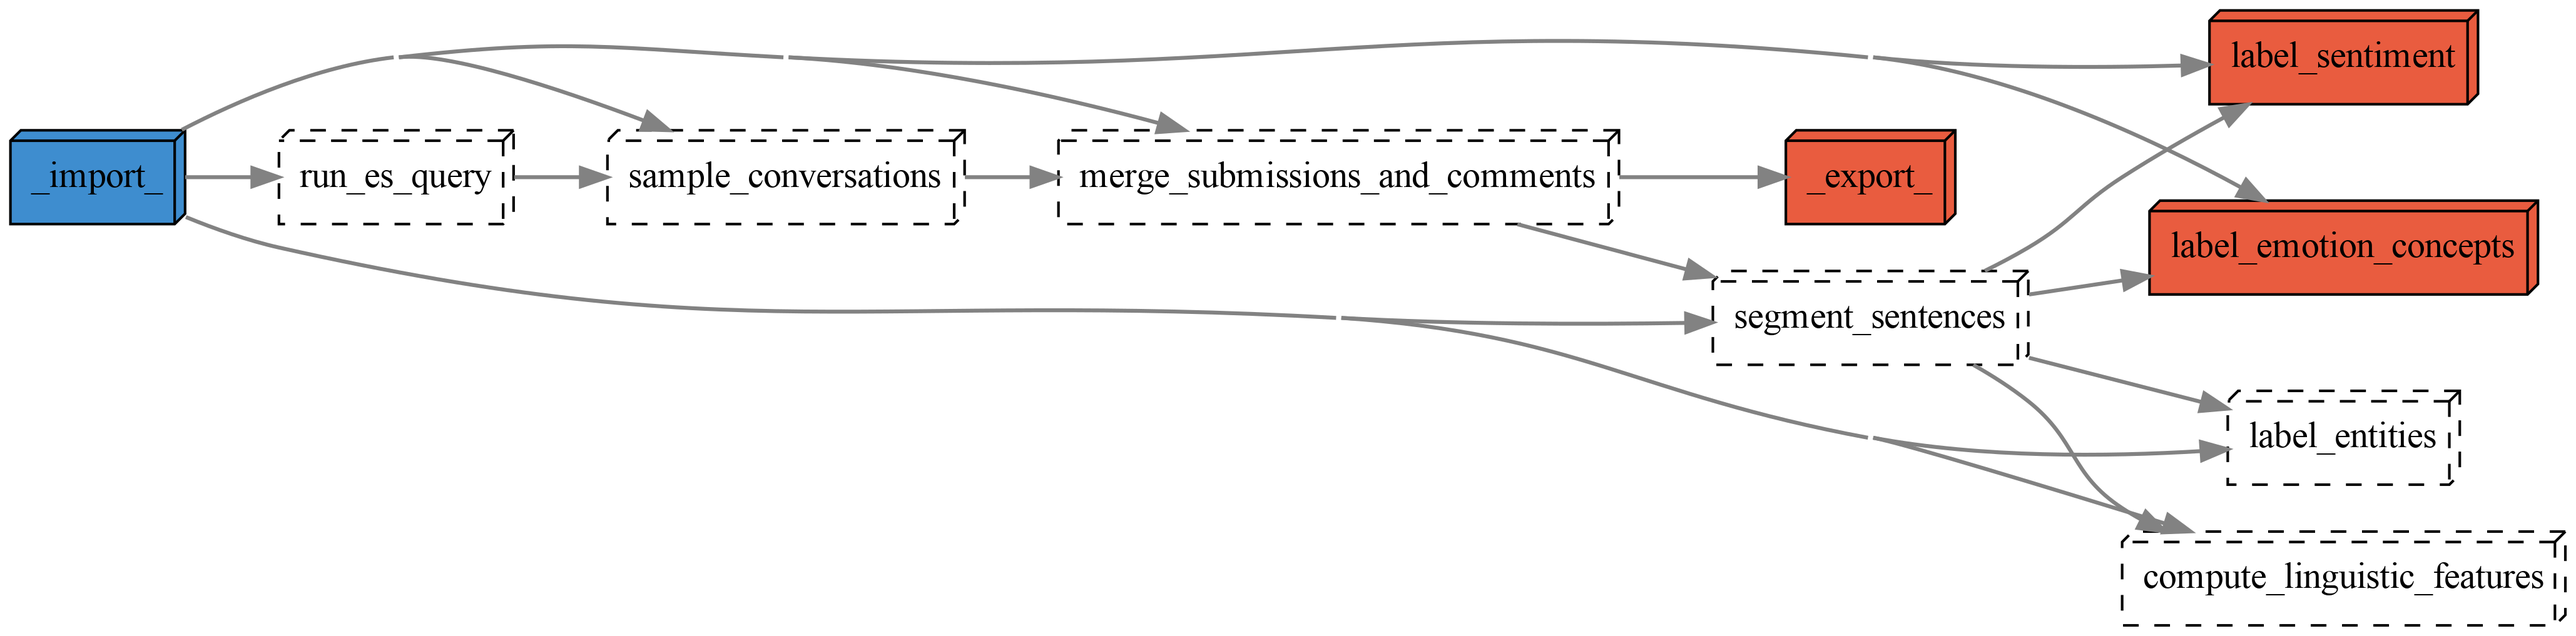
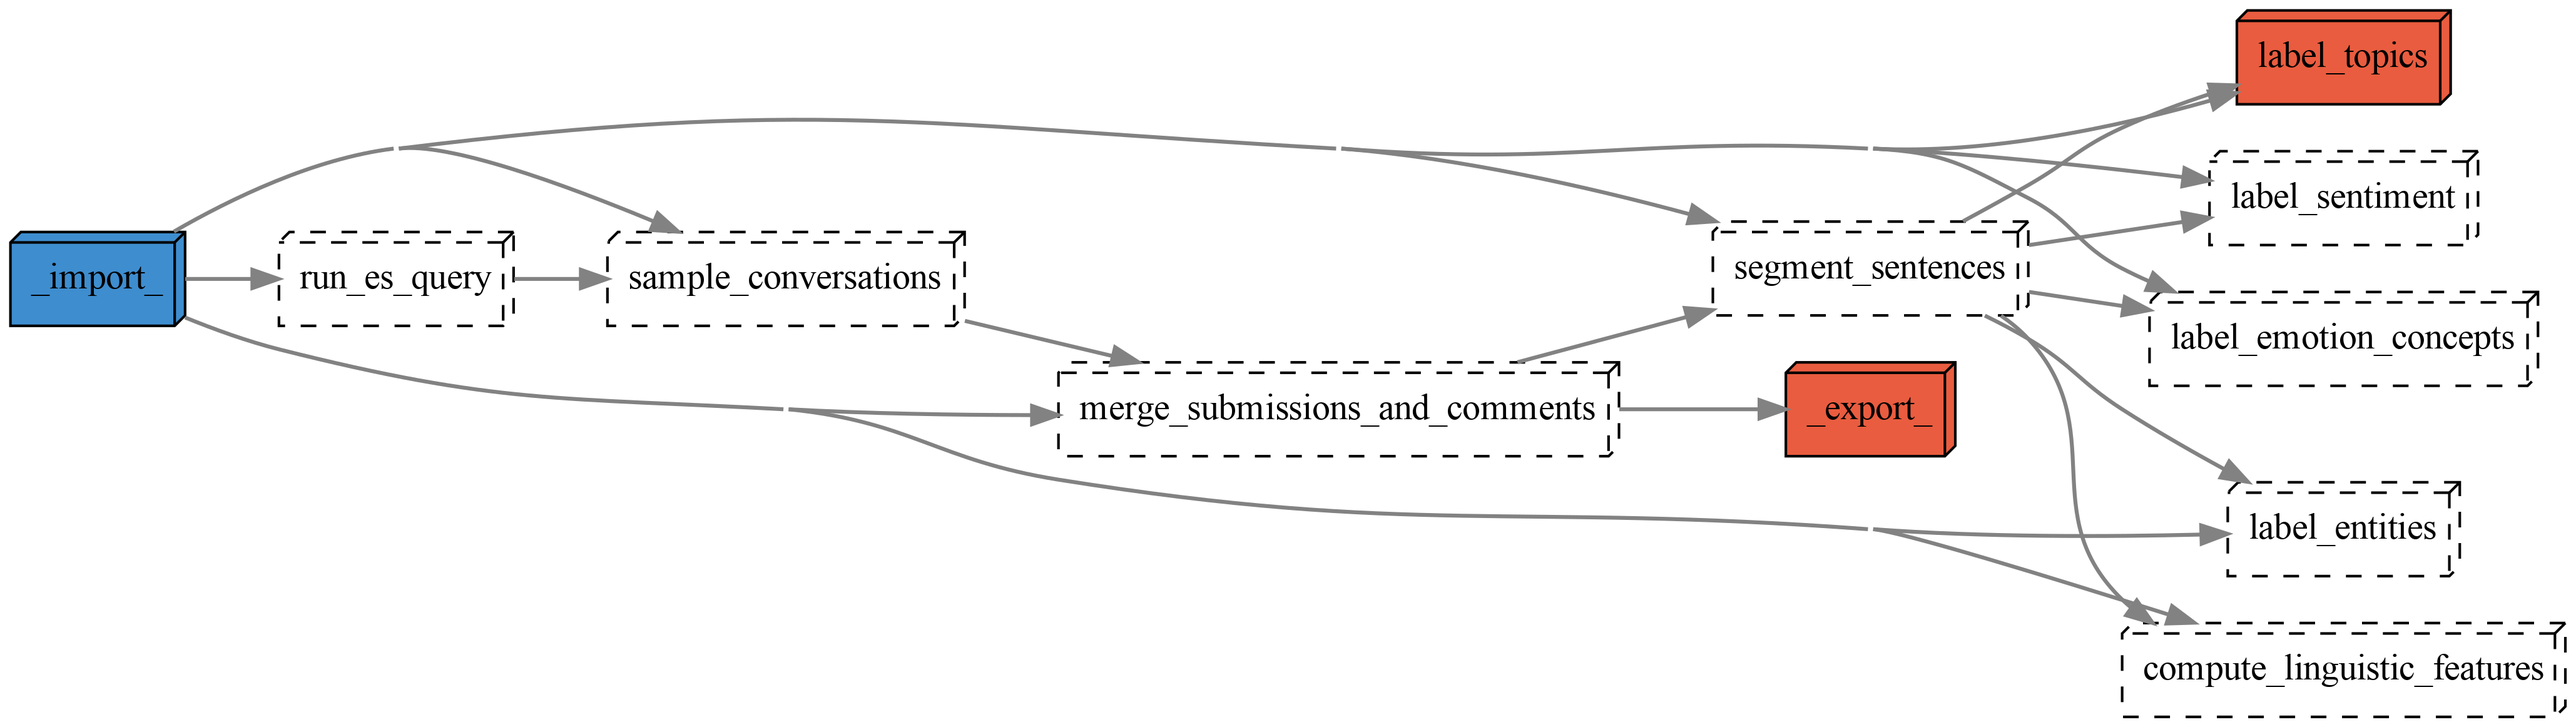
finished labelling topics

diff --git a/podlm/podlm/text.py b/podlm/podlm/text.py
@@ -2,11 +2,13 @@ from termcolor import colored
 from scipy.special import softmax
 from datetime import datetime
 import pandas as pd
-# from sentence_transformers import SentenceTransformer
-# from umap import UMAP
-# from hdbscan import HDBSCAN
-# from sklearn.feature_extraction.text import CountVectorizer
-# from bertopic.representation import KeyBERTInspired, MaximalMarginalRelevance, PartOfSpeech
+from bertopic import BERTopic
+from sentence_transformers import SentenceTransformer
+from umap import UMAP
+from hdbscan import HDBSCAN
+from sklearn.feature_extraction.text import CountVectorizer
+from bertopic.representation import KeyBERTInspired, MaximalMarginalRelevance, PartOfSpeech
+
 
 def split_sentences(df: pd.DataFrame, model, textcol: str = 'text', idcol: str = 'id') -> pd.DataFrame:
     sentences = []
@@ -51,6 +53,30 @@ def transformer_entities(df: pd.DataFrame, model, entity_score_threshold: float,
     count_types = count_categorical(results_long, 'id_sentence', 'label', score_threshold=entity_score_threshold)
     count_types.columns = [f'entity_count_{c}'.lower() for c in count_types.columns]
     return results_long, count_types
+
+
+def transformer_topics(df: pd.DataFrame, model, textcol: str = 'sentence', idcol: str = 'id_sentence'):
+    df = df.reset_index(drop=True)
+    sent_embeddings = SentenceTransformer(model)
+    embeddings = sent_embeddings.encode(df[textcol], show_progress_bar=True)
+    umap_model = UMAP(n_neighbors=15, n_components=5, min_dist=0.0, metric='cosine', random_state=30)
+    hdbscan_model = HDBSCAN(min_cluster_size=15, metric='euclidean', cluster_selection_method='eom', prediction_data=True)
+    vectorizer_model = CountVectorizer(stop_words="english", min_df=2, ngram_range=(1, 2))
+    keybert_model = KeyBERTInspired()
+    # pos_model = PartOfSpeech("en_core_web_sm")
+    mmr_model = MaximalMarginalRelevance(diversity=0.3)
+    representation_model = {"KeyBERT": keybert_model, "MMR": mmr_model} # , "POS": pos_model
+    topic_model = BERTopic(embedding_model=sent_embeddings, 
+                           umap_model=umap_model, 
+                           hdbscan_model=hdbscan_model, 
+                           vectorizer_model=vectorizer_model, 
+                           representation_model=representation_model,
+                           top_n_words=10, verbose=True)
+    topics, probabilities = topic_model.fit_transform(df[textcol], embeddings)
+    df['topic'] = topics
+    df['topic_probability'] = probabilities
+    topic_info = topic_model.get_topic_info()
+    return df, topic_info, topic_model
 
 
 def transformer_sentiment(df: pd.DataFrame, model, tokenizer, textcol: str = 'sentence', idcol: str = 'id_sentence'):
@@ -105,36 +131,6 @@ def transformer_emotion_concepts(df: pd.DataFrame, model, tokenizer, textcol: st
     df.columns = roberta_base_go_emotions
     df['sentence_id'] = sentids
     return df
-
-
-def transformer_topics(df: pd.DataFrame, textcol: str, 
-                       sentence_transformer_model: str, 
-                       hdbscan_min_cluster_size=15, 
-                       show_sent_embeddings_progress_bar=True):
-    from bertopic import BERTopic
-
-    text = df[textcol].tolist()    
-    sent_embeddings = SentenceTransformer(sentence_transformer_model)
-    embeddings = sent_embeddings.encode(text, show_progress_bar=show_sent_embeddings_progress_bar)
-    umap_model = UMAP(n_neighbors=15, n_components=5, min_dist=0.0, metric='cosine', random_state=30)
-    hdbscan_model = HDBSCAN(min_cluster_size=hdbscan_min_cluster_size, metric='euclidean', cluster_selection_method='eom', prediction_data=True)
-    vectorizer_model = CountVectorizer(stop_words="english", min_df=2, ngram_range=(1, 2))
-    keybert_model = KeyBERTInspired()
-    pos_model = PartOfSpeech("en_core_web_sm")
-    mmr_model = MaximalMarginalRelevance(diversity=0.3)
-    representation_model = {"KeyBERT": keybert_model, "MMR": mmr_model, "POS": pos_model}
-    
-    topic_model = BERTopic(embedding_model=sent_embeddings, umap_model=umap_model, hdbscan_model=hdbscan_model, 
-                           vectorizer_model=vectorizer_model, representation_model=representation_model,
-                           top_n_words=10, verbose=True)
-
-    topics, probabilities = topic_model.fit_transform(df[textcol].tolist(), embeddings)
-
-    topic_info = topic_model.get_topic_info()
-    df['topic'] = topics
-    df['topic_probability'] = probabilities
-    return topics, probabilities, topic_info, df, topic_model
-
 
 
 

diff --git a/pipeline/label_topics/src/label_topics.py b/pipeline/label_topics/src/label_topics.py
@@ -1,0 +1,19 @@
+import os
+from podlm.utilities import load_configs, configure_logging, load_parquet, save_parquet
+from podlm.text import transformer_topics
+import logging
+
+# print('🔥🔥🔥 conda activate entities 🔥🔥🔥')
+
+configure_logging(__file__)
+config, _ = load_configs()
+subreddits = config['subreddits']
+
+for r in subreddits:
+    df = load_parquet(f'{r}_sentences')
+    topics, topic_info, topic_model = transformer_topics(df, model="all-MiniLM-L6-v2", textcol='sentence', idcol='id_sentence')
+    save_parquet(topics, f'{r}_topics')
+    save_parquet(topic_info, f'{r}_topic_info')
+    os.makedirs(f'../output/{r}_model_safetensors', exist_ok=True)
+    topic_model.save(f'../output/{r}_model_safetensors', serialization="safetensors", save_ctfidf=True)
+    logging.debug("Finished labelling topics.")
